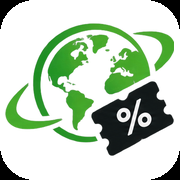
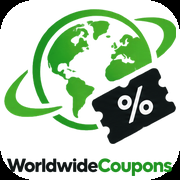
Replace the promises strip, and rework the stores section
"Just added" is gone — it repeated the cards above it. The wall of promises
at the foot of the page is now three steps that say what a shopper actually
does here, next to one clear invitation to keep an account.

The stores section leads with the week's most opened shop on a green panel —
logo, live offers, best current discount and its click count — with six
brand cards beside it and an A to Z jump strip underneath, which also gives
crawlers a route into the directory.

The banners gained a row of stat chips and the shipping one was redrawn: the
parcel now reads as a parcel, and nothing sits on the button.

The tab reads "WorldwideCoupons" first, and the favicon carries the mark at
full size with the name set underneath it.

diff --git a/web/src/app/(site)/page.tsx b/web/src/app/(site)/page.tsx
@@ -6,10 +6,12 @@ import {
   BadgeCheck,
   Check,
   Clock3,
+  Copy,
   Flame,
   LayoutGrid,
   LockOpen,
-  MessagesSquare,
+  PiggyBank,
+  Search,
   Star,
   Store as StoreIcon,
   Tag,
@@ -22,7 +24,6 @@ import { CouponCard } from "@/components/site/CouponCard";
 import { RevealButton } from "@/components/site/RevealButton";
 import { SaveButton } from "@/components/site/SaveButton";
 import { DEFAULT_BANNERS, HeroBanners } from "@/components/site/HeroBanners";
-import { StoreCard } from "@/components/site/StoreCard";
 import { ButtonLink } from "@/components/ui/Button";
 import { Badge, Card, EmptyState, Rail, SectionHeading, StoreLogo } from "@/components/ui/primitives";
 import { apiPaged, apiSafe } from "@/lib/api";
@@ -40,7 +41,8 @@ import type { Category, CouponFeed, CouponView, HomepagePayload, Store } from "@
 export const revalidate = 300;
 
 export const metadata: Metadata = {
-  title: "Verified coupon codes & deals from 190+ stores",
+  // Absolute, so the tab reads as the brand rather than the page's headline.
+  title: { absolute: "WorldwideCoupons — verified coupon codes & deals" },
   description:
     "Every code on WorldwideCoupons is checked before it goes live. Copy, click through, and pay less at the brands you already shop with.",
   alternates: { canonical: "/" },
@@ -221,9 +223,29 @@ export default async function HomePage() {
             }
           />
 
-          <div className="grid gap-3 sm:grid-cols-2 lg:grid-cols-3 xl:grid-cols-4">
-            {data.stores.slice(0, 8).map((store) => (
-              <BrandCard key={store._id} store={store} />
+          <div className="grid gap-4 lg:grid-cols-[1.05fr_1fr]">
+            <FeaturedBrand store={data.stores[0]!} />
+
+            <div className="grid gap-3 sm:grid-cols-2">
+              {data.stores.slice(1, 7).map((store) => (
+                <BrandCard key={store._id} store={store} />
+              ))}
+            </div>
+          </div>
+
+          {/* A quick way into the rest of the directory, and a crawlable one. */}
+          <div className="mt-4 flex flex-wrap items-center gap-1.5 rounded-2xl border border-[var(--border-subtle)] px-4 py-3">
+            <span className="mr-1 text-[11px] font-bold uppercase tracking-[0.16em] text-faint">
+              Jump to
+            </span>
+            {"ABCDEFGHIJKLMNOPQRSTUVWXYZ".split("").map((letter) => (
+              <Link
+                key={letter}
+                href={`/stores?letter=${letter}`}
+                className="flex size-7 items-center justify-center rounded-lg text-xs font-bold text-body transition hover:bg-brand-50 hover:text-brand-700 dark:hover:bg-brand-950/60 dark:hover:text-brand-300"
+              >
+                {letter}
+              </Link>
             ))}
           </div>
         </section>
@@ -335,28 +357,6 @@ export default async function HomePage() {
         ) : null
       )}
 
-      {data.newest.length ? (
-        <section className="shell pt-14">
-          <SectionHeading
-            eyebrow="Fresh"
-            title="Just added"
-            action={
-              <Link
-                href="/coupons?sort=newest"
-                className="text-sm font-semibold text-brand-600 hover:underline"
-              >
-                See all new →
-              </Link>
-            }
-          />
-          <div className="grid gap-3 lg:grid-cols-2">
-            {data.newest.slice(0, 8).map((coupon) => (
-              <CouponCard key={coupon._id} coupon={coupon} />
-            ))}
-          </div>
-        </section>
-      ) : null}
-
       {data.blocks.length ? (
         <section className="shell pt-14">
           <div className="grid gap-4 sm:grid-cols-2 lg:grid-cols-3">
@@ -383,7 +383,7 @@ export default async function HomePage() {
         </section>
       ) : null}
 
-      <TrustStrip />
+      <HowItWorks />
 
       <div className="shell">
         <AdSlot position="home-bottom" className="mt-14" />
@@ -823,6 +823,68 @@ function RankedOffer({ coupon, rank }: { coupon: CouponView; rank: number }) {
   );
 }
 
+function FeaturedBrand({ store }: { store: Store }) {
+  return (
+    <article className="relative flex flex-col justify-between overflow-hidden rounded-3xl bg-brand-gradient p-6 text-white shadow-[var(--shadow-glow)]">
+      <span
+        aria-hidden
+        className="pointer-events-none absolute inset-0 opacity-70"
+        style={{
+          backgroundImage:
+            "radial-gradient(24rem 14rem at 10% -20%, rgba(255,255,255,0.35), transparent 70%), radial-gradient(20rem 12rem at 100% 120%, rgba(255,255,255,0.22), transparent 70%)",
+        }}
+      />
+
+      <div className="relative">
+        <p className="text-[11px] font-bold uppercase tracking-[0.16em] text-white/75">
+          Most opened this week
+        </p>
+
+        <div className="mt-4 flex items-center gap-3.5">
+          <span className="flex size-16 items-center justify-center rounded-2xl bg-white p-1 shadow-[var(--shadow-card)]">
+            <StoreLogo name={store.name} logo={store.logo} size={56} rounded="rounded-xl" />
+          </span>
+
+          <div className="min-w-0">
+            <h3 className="truncate font-display text-2xl font-extrabold">{store.name}</h3>
+            <p className="text-sm text-white/80">
+              {formatCount(store.activeCouponCount)} live offers
+              {store.codeCount ? ` · ${formatCount(store.codeCount)} promo codes` : ""}
+            </p>
+          </div>
+        </div>
+
+        {store.bestOffer ? (
+          <p className="mt-5 inline-flex rounded-2xl bg-white/15 px-4 py-2.5 text-sm font-bold ring-1 ring-inset ring-white/25">
+            Best right now · {store.bestOffer}
+          </p>
+        ) : null}
+
+        {store.description ? (
+          <p className="mt-4 line-clamp-2 max-w-md text-sm leading-relaxed text-white/80">
+            {store.description}
+          </p>
+        ) : null}
+      </div>
+
+      <div className="relative mt-6 flex flex-wrap items-center gap-2">
+        <Link
+          href={`/store/${store.slug}`}
+          className="inline-flex h-11 items-center gap-1.5 rounded-2xl bg-white px-5 text-sm font-bold text-brand-700 transition hover:-translate-y-0.5 hover:shadow-[var(--shadow-lift)]"
+        >
+          See {store.name} offers
+          <ArrowRight aria-hidden className="size-4" />
+        </Link>
+
+        <span className="inline-flex items-center gap-1.5 rounded-2xl px-3 py-2 text-xs font-semibold text-white/80 ring-1 ring-inset ring-white/25">
+          <Flame aria-hidden className="size-3.5" />
+          {formatCount(store.clicks)} clicks
+        </span>
+      </div>
+    </article>
+  );
+}
+
 function BrandCard({ store }: { store: Store }) {
   return (
     <Link
@@ -1103,28 +1165,99 @@ function StatBar({
   );
 }
 
-function TrustStrip() {
-  const points = [
-    { Icon: BadgeCheck, title: "Checked, not scraped", body: "An editor opens every offer before it goes live." },
-    { Icon: Clock3, title: "Real expiry dates", body: "If we do not know when it ends, we say so." },
-    { Icon: LockOpen, title: "No account needed", body: "Codes are one click away. Signing in only saves them." },
-    { Icon: MessagesSquare, title: "You keep us honest", body: "Vote on what worked and we act on it." },
-  ];
+/* =========================================================
+   HOW IT WORKS
 
+   The three steps, then the one thing a shopper can do next. It replaces the
+   old wall of promises, which repeated what the hero already said.
+========================================================= */
+
+const STEPS = [
+  {
+    Icon: Search,
+    title: "Find the store",
+    body: "Search a brand or open a category. Every live offer for that shop sits on one page.",
+  },
+  {
+    Icon: Copy,
+    title: "Take the code",
+    body: "One click copies the code and opens the shop in a new tab, with the offer already applied.",
+  },
+  {
+    Icon: PiggyBank,
+    title: "Pay less",
+    body: "Paste at checkout. If it did not work, tell us and the offer comes down the same day.",
+  },
+];
+
+function HowItWorks() {
   return (
     <section className="shell pt-16">
-      <div className="grid gap-3 sm:grid-cols-2 lg:grid-cols-4">
-        {points.map((point) => (
-          <Card key={point.title} className="flex gap-3">
-            <span className="flex size-10 shrink-0 items-center justify-center rounded-xl bg-brand-50 text-brand-700 dark:bg-brand-950/60 dark:text-brand-300">
-              <point.Icon aria-hidden className="size-5" strokeWidth={1.9} />
-            </span>
-            <span>
-              <span className="block text-sm font-bold">{point.title}</span>
-              <span className="mt-0.5 block text-sm text-body">{point.body}</span>
-            </span>
-          </Card>
-        ))}
+      <div className="surface relative overflow-hidden rounded-3xl border border-[var(--border-subtle)] shadow-[var(--shadow-card)]">
+        <span
+          aria-hidden
+          className="pointer-events-none absolute -left-16 -top-20 size-72 rounded-full bg-brand-100 opacity-60 blur-3xl dark:bg-brand-900/40"
+        />
+        <span
+          aria-hidden
+          className="pointer-events-none absolute -bottom-24 -right-10 size-72 rounded-full bg-accent-100 opacity-70 blur-3xl dark:bg-brand-900/30"
+        />
+
+        <div className="relative grid gap-8 p-6 sm:p-9 lg:grid-cols-[1fr_20rem] lg:gap-10">
+          <div>
+            <p className="flex items-center gap-2 text-xs font-bold uppercase tracking-[0.16em] text-brand-600">
+              <span className="h-px w-6 bg-brand-400" />
+              Three steps
+            </p>
+            <h2 className="mt-1 font-display text-xl font-extrabold sm:text-2xl">
+              How a coupon here actually works
+            </h2>
+
+            <ol className="mt-6 grid gap-5 sm:grid-cols-3">
+              {STEPS.map((step, index) => (
+                <li key={step.title} className="relative">
+                  <span className="flex size-11 items-center justify-center rounded-2xl bg-gradient-to-br from-brand-100 to-accent-100 text-brand-700 ring-1 ring-inset ring-brand-200/60 dark:from-brand-950 dark:to-brand-900/50 dark:text-brand-300 dark:ring-brand-800">
+                    <step.Icon aria-hidden className="size-5" strokeWidth={1.9} />
+                  </span>
+
+                  <p className="mt-3 flex items-center gap-2 text-sm font-bold">
+                    <span className="font-display text-brand-500">0{index + 1}</span>
+                    {step.title}
+                  </p>
+                  <p className="mt-1 text-sm leading-relaxed text-body">{step.body}</p>
+                </li>
+              ))}
+            </ol>
+          </div>
+
+          <div className="flex flex-col justify-center gap-3 rounded-3xl bg-brand-gradient p-6 text-white shadow-[var(--shadow-glow)]">
+            <p className="text-[11px] font-bold uppercase tracking-[0.16em] text-white/75">
+              Never miss a code
+            </p>
+            <p className="font-display text-xl font-extrabold leading-snug">
+              Save an offer and we will tell you before it expires.
+            </p>
+            <p className="text-sm text-white/80">
+              A free account keeps your codes in one place, across every device.
+            </p>
+
+            <div className="mt-2 flex flex-wrap gap-2">
+              <Link
+                href="/account/register"
+                className="inline-flex h-11 items-center gap-1.5 rounded-2xl bg-white px-5 text-sm font-bold text-brand-700 transition hover:-translate-y-0.5 hover:shadow-[var(--shadow-lift)]"
+              >
+                Create a free account
+                <ArrowRight aria-hidden className="size-4" />
+              </Link>
+              <Link
+                href="/coupons"
+                className="inline-flex h-11 items-center rounded-2xl px-4 text-sm font-bold text-white ring-1 ring-inset ring-white/35 transition hover:bg-white/10"
+              >
+                Browse offers
+              </Link>
+            </div>
+          </div>
+        </div>
       </div>
     </section>
   );

diff --git a/web/src/components/site/Header.tsx b/web/src/components/site/Header.tsx
@@ -4,7 +4,7 @@ import Link from "next/link";
 import { usePathname } from "next/navigation";
 import { useEffect, useState } from "react";
 import {
-  ChevronRight,
+  ArrowRight,
   Clock3,
   Flame,
   LayoutGrid,
@@ -192,7 +192,8 @@ export function Header({ categories }: { categories: Category[] }) {
                       href="/categories"
                       className="ml-auto inline-flex h-9 items-center gap-1 rounded-full bg-brand-gradient px-4 text-sm font-bold text-white transition hover:brightness-110"
                     >
-                      Browse every category →
+                      Browse every category
+                      <ArrowRight aria-hidden className="size-4" />
                     </Link>
                   </div>
                 </div>

diff --git a/web/src/app/layout.tsx b/web/src/app/layout.tsx
@@ -22,7 +22,7 @@ const SITE_URL = process.env.NEXT_PUBLIC_SITE_URL ?? "https://worldwidecoupons.c
 export const metadata: Metadata = {
   metadataBase: new URL(SITE_URL),
   title: {
-    default: "WorldwideCoupons — Verified coupon codes & deals",
+    default: "WorldwideCoupons — verified coupon codes & deals",
     template: "%s | WorldwideCoupons",
   },
   description:
